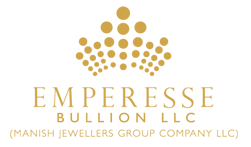
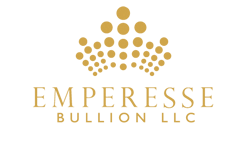
chnage item name and margin

Changed region(s): [[0.0279, 0.8707, 0.9482, 0.9524]]

diff --git a/www/js/app.js b/www/js/app.js
@@ -123,7 +123,7 @@
             $scope.margindata = {};
             $scope.items = [
                 {
-                    "Name": "1 GM RECTANGLE BAR",
+                    "Name": "1 GM GOLD BAR 999.9 PURITY",
                     "UOMConFactor": 31.1034,
                     "USDExRate": 3.674,
                     "Weight": 1,
@@ -137,7 +137,7 @@
                     "image": "1-GM-GOLD-BAR.png"
         },
                 {
-                    "Name": "2.5 GM RECTANGLE BAR",
+                    "Name": "2.5  GM GOLD BAR 999.9 PURITY",
                     "UOMConFactor": 31.1034,
                     "USDExRate": 3.674,
                     "Weight": 2.5,
@@ -152,7 +152,7 @@
 
         },
                 {
-                    "Name": "5 GM RECTANGLE BAR",
+                    "Name": "5 GM GOLD BAR 999.9 PURITY",
                     "UOMConFactor": 31.1034,
                     "USDExRate": 3.674,
                     "Weight": 5,
@@ -167,7 +167,7 @@
 
         },
                 {
-                    "Name": "10 GM RECTANGLE BAR",
+                    "Name": "10 GM GOLD BAR 999.9 PURITY",
                     "UOMConFactor": 31.1034,
                     "USDExRate": 3.674,
                     "Weight": 10,
@@ -181,7 +181,7 @@
                     "image": "10g_GOLD_01.png"
         },
                 {
-                    "Name": "20 GM RECTANGLE BAR",
+                    "Name": "20 GM GOLD BAR 999.9 PURITY",
                     "UOMConFactor": 31.1034,
                     "USDExRate": 3.674,
                     "Weight": 20,
@@ -195,7 +195,7 @@
                     "image": "20g_GOLD_04.png"
         },
                 {
-                    "Name": "50 GM RECTANGLE BAR",
+                    "Name": "50 GM GOLD BAR 999.9 PURITY",
                     "UOMConFactor": 31.1034,
                     "USDExRate": 3.674,
                     "Weight": 50,
@@ -209,7 +209,7 @@
                     "image": "50g_Gold_03.png"
         },
                 {
-                    "Name": "100 GM RECTANGLE BAR",
+                    "Name": "100 GM GOLD BAR 999.9 PURITY",
                     "UOMConFactor": 31.1034,
                     "USDExRate": 3.674,
                     "Weight": 100,
@@ -223,7 +223,7 @@
                     "image": "100g_LIVELLI.png"
         },
                 {
-                    "Name": "1 OUNCE RECTANGLE BAR",
+                    "Name": "1 OZ GOLD BAR 999.9 PURITY",
                     "UOMConFactor": 31.1034,
                     "USDExRate": 3.674,
                     "Weight": 31.1034,
@@ -237,7 +237,7 @@
                     "image": "1OZ_GOLD_03.png"
         },
                 {
-                    "Name": "TT BAR",
+                    "Name": "TEN TOLA GOLD BAR 999 PURITY",
                     "UOMConFactor": 31.1034,
                     "USDExRate": 3.674,
                     "Weight": 116.52336,
@@ -251,7 +251,7 @@
                     "image": "TT_BAR.png"
                 },
                 {
-                    "Name": "KILO BAR 995",
+                    "Name": "1 KG GOLD BAR 995 PURITY",
                     "UOMConFactor": 31.1034,
                     "USDExRate": 3.674,
                     "Weight": 995,
@@ -281,7 +281,7 @@
 
                 },
                 {
-                    "Name": "SILVER KILO BAR 999",
+                    "Name": "I KG SILVER BAR 995 PURITY",
                     "UOMConFactor": 1,
                     "USDExRate": 3.674,
                     "Weight": 32.15,
@@ -297,7 +297,7 @@
     ];
 
             Firebase.INTERNAL.forceWebSockets();
-            var ref = new Firebase("https://wingoldnext.firebaseio.com/path/margin");
+            var ref = new Firebase("https://wingoldnext.firebaseio.com/path/retailmargin");
             ref.on("value", function (snapshot) {
                 var obj;
                 angular.forEach(snapshot.val(), function (value) {

diff --git a/www/css/style.css b/www/css/style.css
@@ -108,11 +108,10 @@ ul {
 }
 
 
-
 .title-price-img {
     background-image: url(../img/emperesse.png);
     height: 100%;
-    background-size: 50% 90%;
+    background-size: 80% 80%;
     background-repeat: no-repeat;
     background-position: center;
 }
@@ -283,6 +282,14 @@ ul {
     height: 100vh;*/
 }
 
+
+.img-cap {
+    font-size: 18px;
+    padding: 2px 2px;
+    font-weight: bold;
+}
+
+
 @media only screen and (max-height: 3000px) {
     
     .text-content {
@@ -332,6 +339,11 @@ ul {
     }
     .item-rate {
         font-size: 54px;
+        font-weight: bold;
+    }
+    .img-cap {
+        font-size: 32px;
+        padding: 8px 8px;
         font-weight: bold;
     }
     .numbertext {
@@ -400,6 +412,11 @@ ul {
     .numbertext {
         font-size: 36px font-weight: bold;
     }
+    .img-cap {
+        font-size: 30px;
+        padding: 8px 8px;
+        font-weight: bold;
+    }
     .btn-circle {
         width: 80px;
         height: 80px;
@@ -459,6 +476,11 @@ ul {
         font-size: 23px;
         font-weight: bold;
     }
+    .img-cap {
+        font-size: 18px;
+        padding: 2px 2px;
+        font-weight: bold;
+    }
     .numbertext {
         font-size: 23px font-weight: bold;
     }
@@ -510,6 +532,11 @@ ul {
         font-size: 16px;
         height: 44px;
     }
+    .img-cap {
+        font-size: 18px;
+        padding: 2px 2px;
+        font-weight: bold;
+    }
     .item-cap {
         font-size: 18px;
         padding: 10px 2px;
@@ -517,6 +544,11 @@ ul {
     }
     .item-rate {
         font-size: 18px;
+        font-weight: bold;
+    }
+     .img-cap {
+        font-size: 14px;
+        padding: 2px 2px;
         font-weight: bold;
     }
     .numbertext {
@@ -574,10 +606,10 @@ ul {
     .item {
         padding: 0px;
         font-size: 13px;
-        height: 26px;
+        height: 28px;
     }
     .item-cap {
-        font-size: 12px;
+        font-size: 11px;
         padding: 2px 2px;
         font-weight: bold;
     }
@@ -587,6 +619,11 @@ ul {
     }
     .numbertext {
         font-size: 14px font-weight: bold;
+    }
+     .img-cap {
+        font-size: 11px;
+        padding: 1px 1px;
+        font-weight: bold;
     }
     .btn-circle {
         width: 50px;
@@ -657,6 +694,11 @@ ul {
     }
     .item-rate {
         font-size: 17px;
+        font-weight: bold;
+    }
+    .img-cap {
+        font-size: 17px;
+        padding: 1px 1px;
         font-weight: bold;
     }
     .numbertext {

diff --git a/www/js/view/aboutus.html b/www/js/view/aboutus.html
@@ -15,7 +15,7 @@
                                 </div>
                                 <br />
                                 <p>
-                                    Emperesse Bullion LLC is fully owned and operated by Manish Jewellers LLC. Parent group of Manish Jewellers had a humble start in Dubai way back in 1956. The group in its present name and structure was established in 1981 and since then we cater to the need of an ever growing group loyal customers. We are one of the prominent names in Bullion trading in UAE with a 24 hours highly professional dealing room. The group also is into Diamond Jewellery retail, manufacture, branded jewelry wholesale and certified diamond retail and wholesale.
+                                    Parent group of Manish Jewellers had a humble start in Dubai way back in 1956. The group in its present name and structure was established in 1981 and since then we cater to the need of an ever growing group loyal customers. We are one of the prominent names in the Bullion trading in UAE with 24 hours highly professional dealing room. Our certified diamond wholesale division offer a huge stock of certified solitaires at competitive prices. The group also is into Diamond Jewellery retail, manufacture & branded jewelry wholesales.
                                 </p>
                             </div>
                             <div>

diff --git a/www/js/view/pricestream.html b/www/js/view/pricestream.html
@@ -19,7 +19,11 @@
                         <div class="row pricestream-row">
                             <div class="pricestream-col col col-75 golditem-text" ng-style="{'background-color': item.bgitem, 'color': item.coloritem}">
                                 <div class="item-cap">{{item.Name}}</div>
-                                <div class="btn-circle" ng-click="openModal($index)"><i class="ion-aperture"></i></div>
+                                <div class="btn-circle" ng-click="openModal($index)">
+                                    <div class="img-cap">SEE</div>
+                                    <div class="img-cap">PIC</div>
+                                    <!--i class="ion-aperture"></i-->
+                                </div>
                             </div>
                             <div class="col numbertext" ng-style="{'background-color': item.bgrate, 'color': item.colorrate}">
                                 <div class="item-rate">{{item.Rate}}</div>

diff --git a/www/js/view/paylater.html b/www/js/view/paylater.html
@@ -17,8 +17,9 @@
                                         <span> PAYLATER </span>
                                     </div>
                                     <br />
-                                    <p>For Payment Plan customers call our customer service no: Landline : 04-3380909 & Mobile : 056 116 1826
-                                    </p>
+                                    <p>For Payment Plan customers call our customer service no: </p>
+                                    <p>Landline : +971 04 3380909 </p>
+                                    <p>Mobile   : +971 056 116 1826</p>
 
                                 </div>
                             </div>
